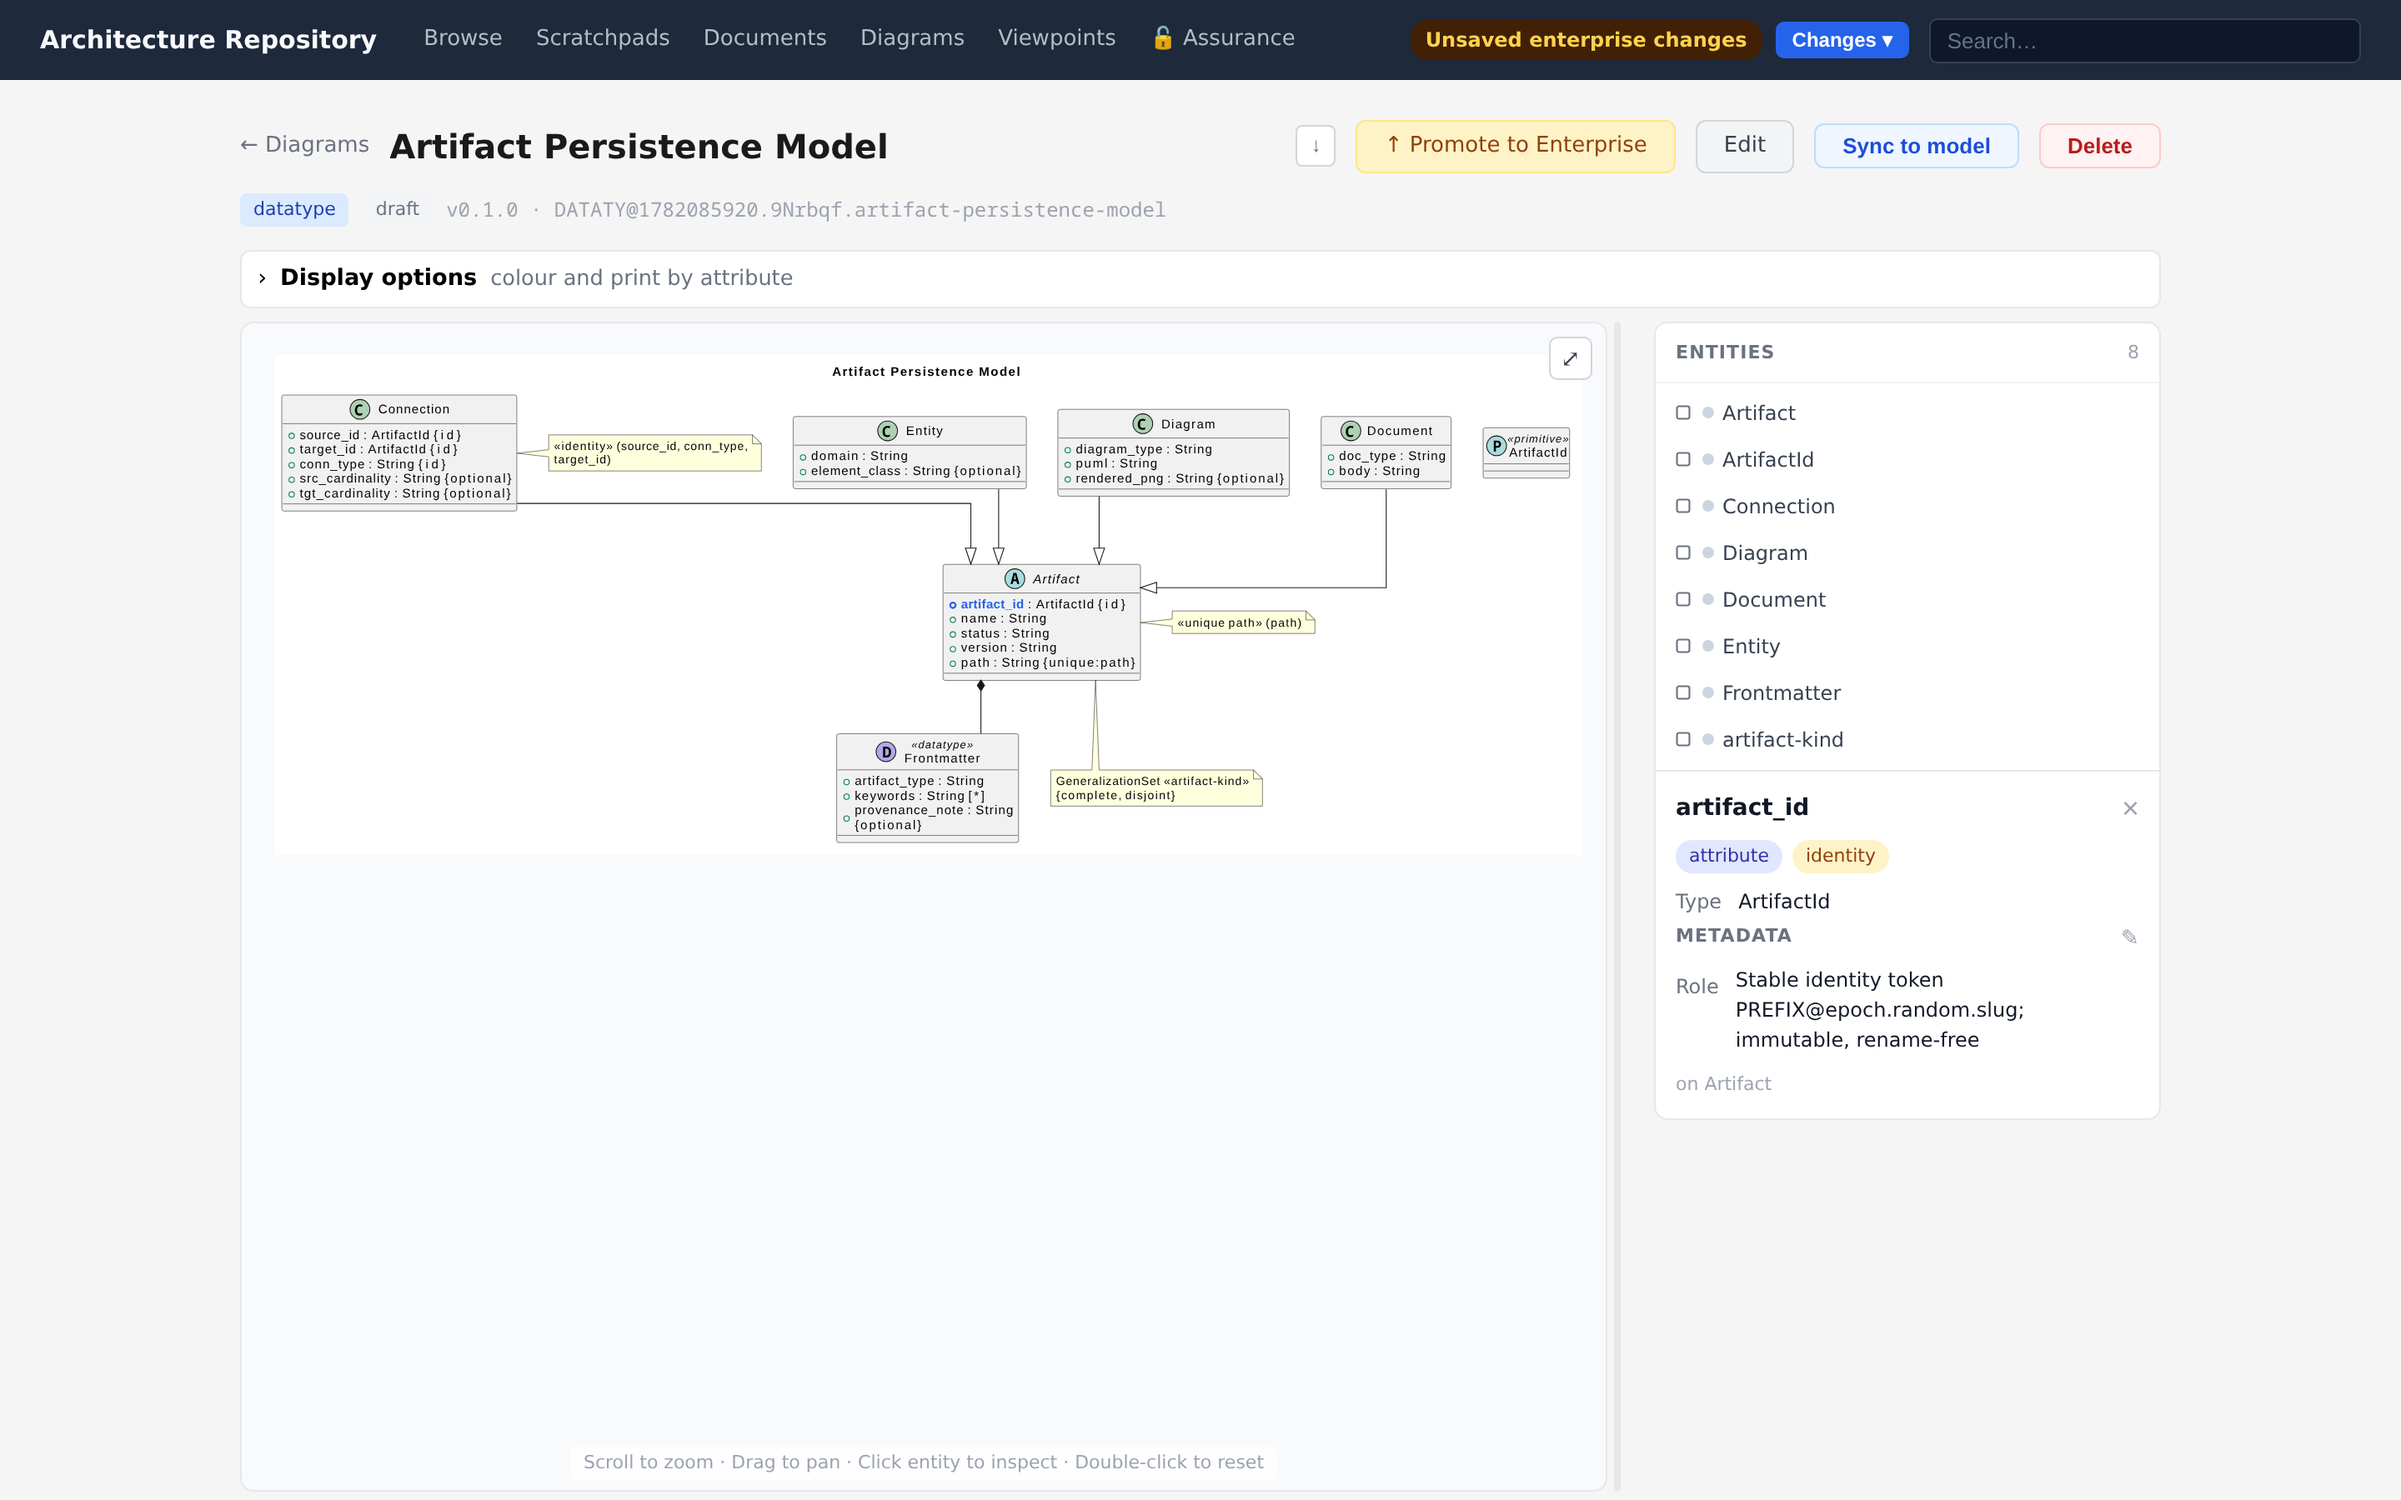
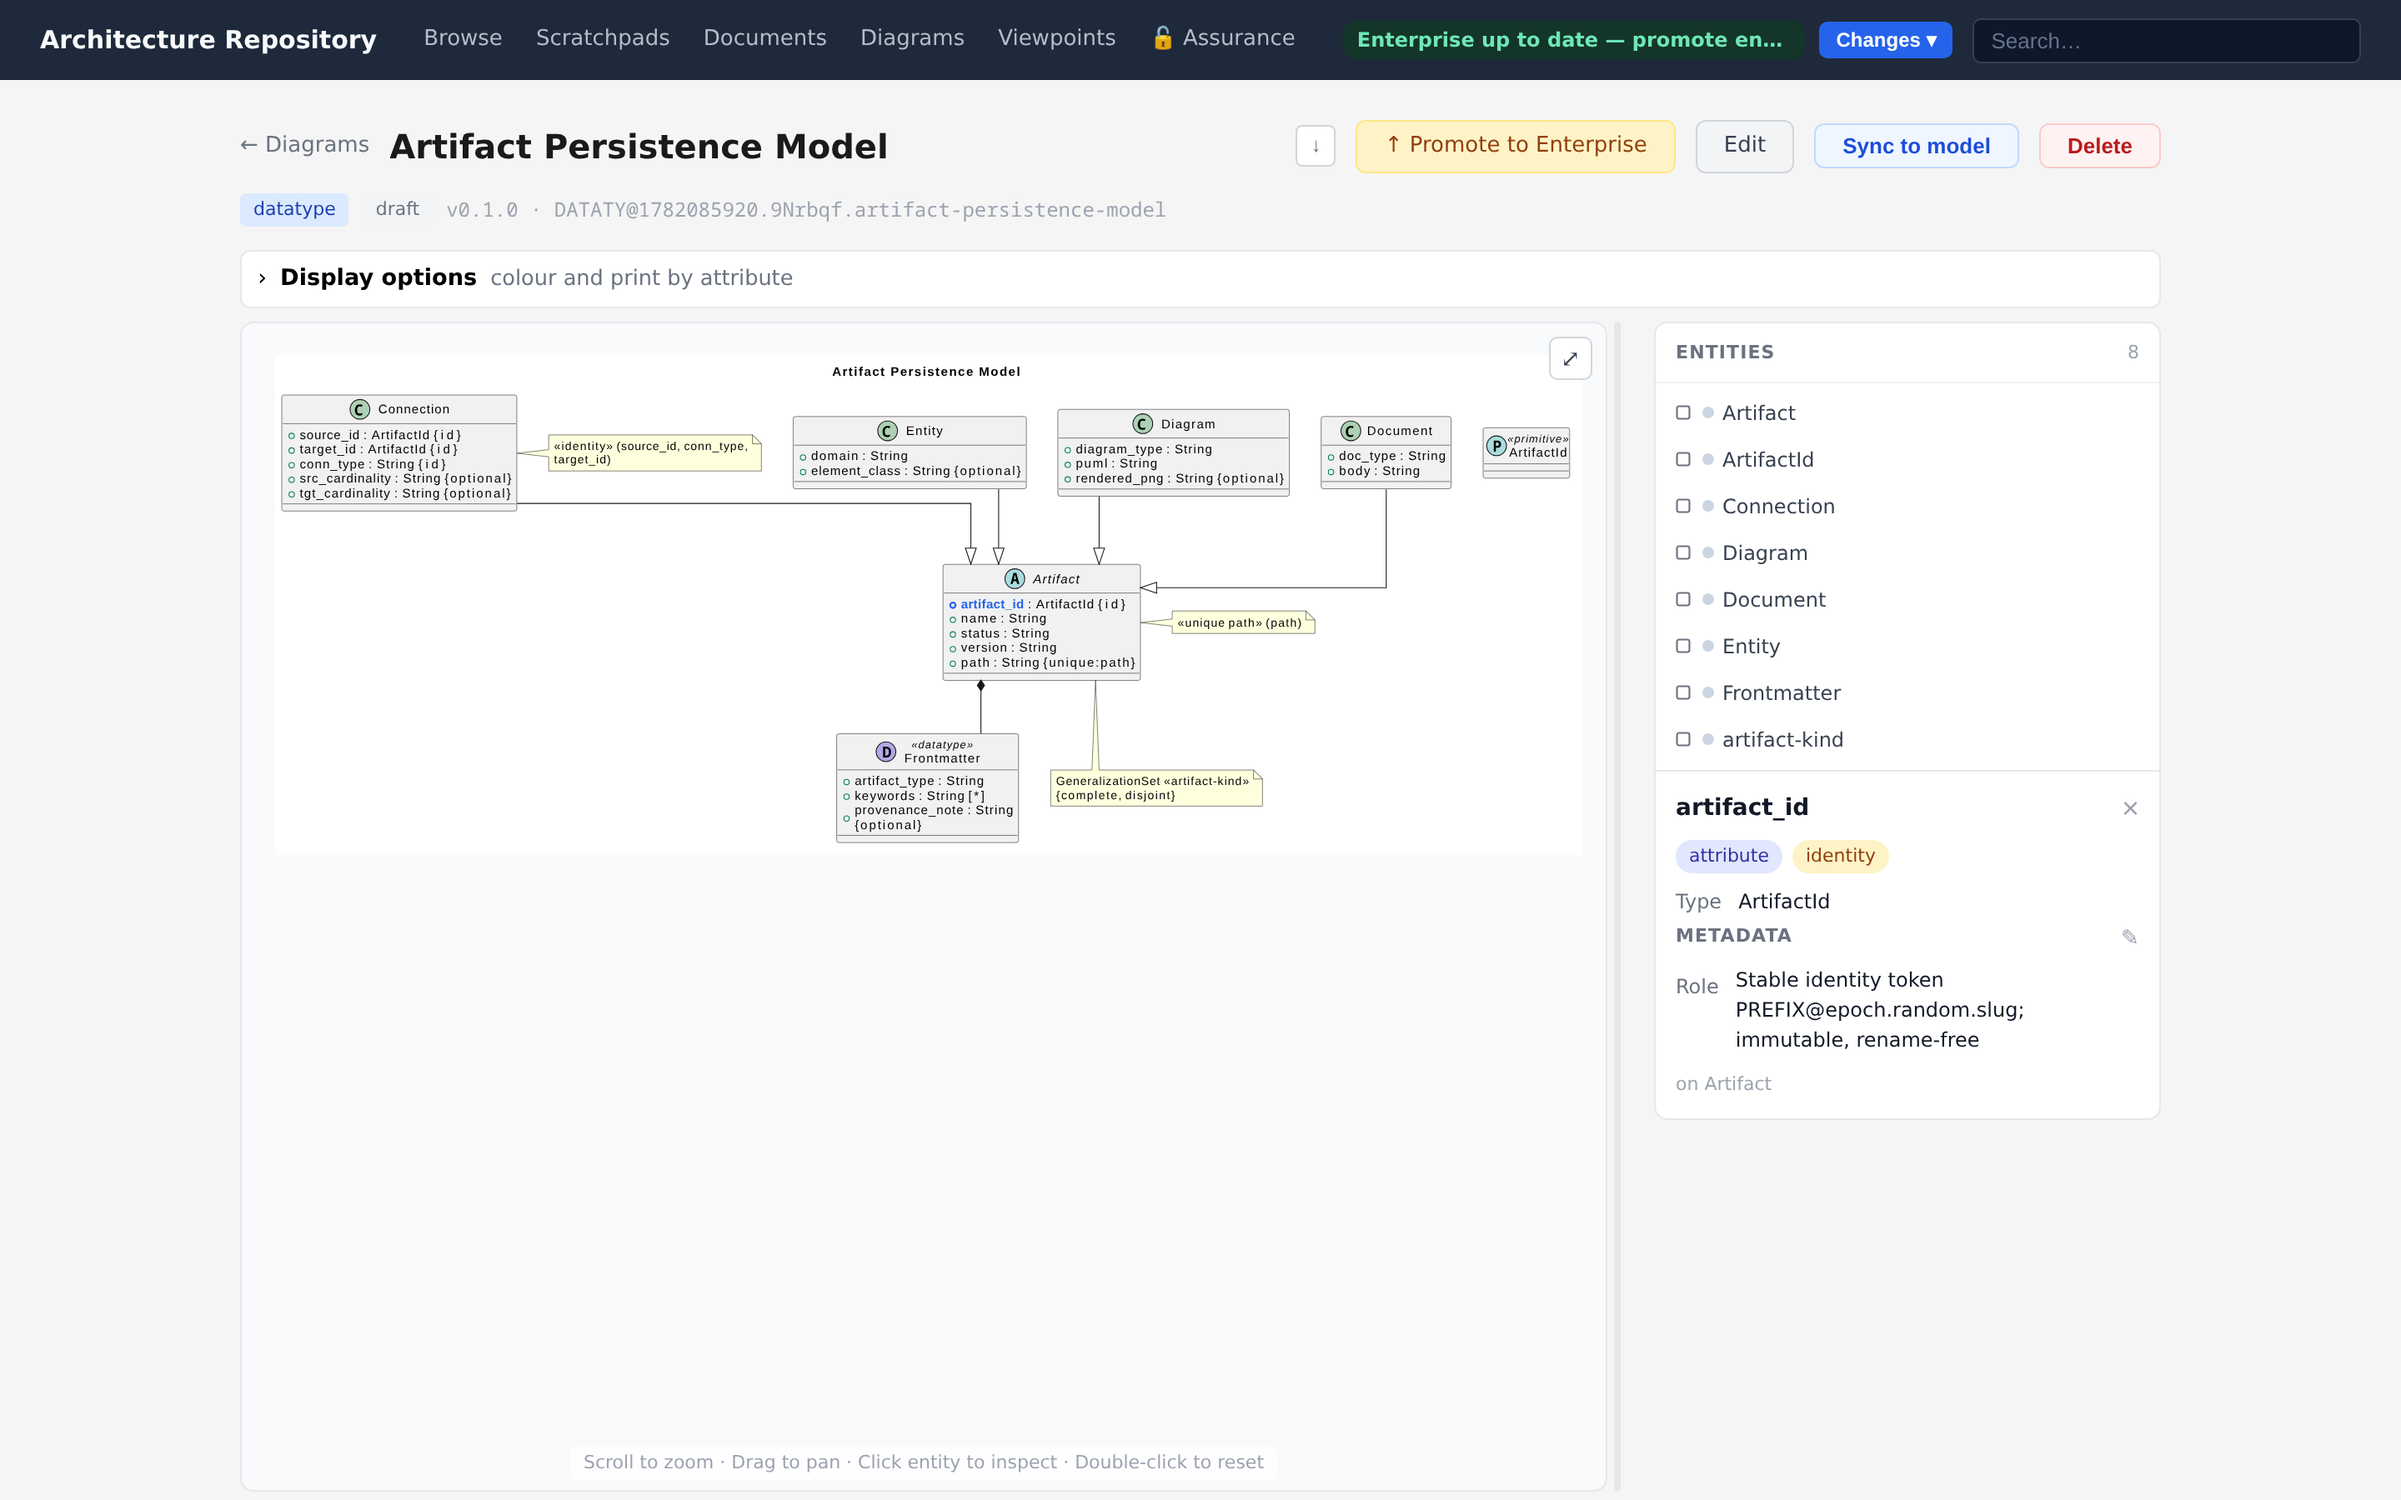
Docs: re-shoot the media set, and capture the proposed-changes page
Every figure showing the header changed: the primary navigation lost an entry
and the search box no longer overhangs the window, so the whole set is re-shot
rather than the handful whose own surface moved. The manifest carries 37
provenance records, one per capture.

The new figure shows both halves of the page a reader needs to recognise: a
draft change against the artifact as it stands, and a submitted one whose
artifact has moved on, offering to bring it onto the current version. Its data
is intercepted and marked `synthetic_augmentation`, because a capture driven
against the real repository would have to write a change into it.

Changed region(s): [[0.5625, 0.0, 0.8438, 0.0622]]

diff --git a/tools/gui/tests/media/proposedChangesMedia.spec.ts b/tools/gui/tests/media/proposedChangesMedia.spec.ts
@@ -1,0 +1,78 @@
+import { expect, test } from '@playwright/test'
+import { capture, watch, type CaptureProvenance } from './mediaHelpers'
+
+/**
+ * The documentation's picture of what an engagement is holding against promoted content.
+ *
+ * The list is rendered from `/api/changes`, and that answer is supplied here rather than produced
+ * by editing this repository's own promoted artifacts. A change is a real write: recording two to
+ * be photographed would leave them in the self-model, and discarding them afterwards would leave
+ * the terminal records the lifecycle keeps on purpose.
+ *
+ * So the page is real, the data is representative, and the manifest says so —
+ * `synthetic_augmentation: true`, the same declaration the scratchpad and security captures carry.
+ *
+ * The subject is what the page exists to answer: which artifacts you have changed, what each
+ * change would make them say beside what they say now, and which of them needs something doing
+ * about it. One of each, because a page showing only the settled case argues nothing.
+ */
+
+const PROVENANCE: CaptureProvenance = {
+  test_name: 'local changes against promoted content',
+  artifact_ids: [],
+  synthetic_augmentation: true,
+}
+
+const CHANGES = [
+  {
+    artifact_id: 'PCH@1780000900.MediaA.change-to-a-promoted-requirement',
+    target_id: 'REQ@1712870400.MediaB.every-write-is-verified-before-it-lands',
+    target_name: 'Every write is verified before it lands',
+    kind: 'entity' as const,
+    changed_fields: ['summary'],
+    state: 'draft' as const,
+    condition: 'current' as const,
+    divergence: [{
+      field: 'summary',
+      proposed: 'Every write is verified before it lands, including writes made by an agent.',
+      current: 'Every write is verified before it lands.',
+    }],
+  },
+  {
+    artifact_id: 'PCH@1780000901.MediaC.change-to-a-promoted-standard',
+    target_id: 'STD@1712870400.MediaD.naming-conventions-for-shared-content',
+    target_name: 'Naming conventions for shared content',
+    kind: 'document' as const,
+    changed_fields: ['title'],
+    state: 'submitted' as const,
+    condition: 'stale' as const,
+    divergence: [{
+      field: 'title',
+      proposed: 'Naming conventions for shared content',
+      current: 'Naming conventions for promoted content',
+    }],
+  },
+]
+
+test('the changes an engagement is holding', async ({ page }) => {
+  const problems = watch(page)
+  await page.route('**/api/changes', async (route) => {
+    if (route.request().method() !== 'GET') return route.fallback()
+    await route.fulfill({
+      status: 200,
+      contentType: 'application/json',
+      body: JSON.stringify({ changes: CHANGES, total: CHANGES.length }),
+    })
+  })
+
+  await page.goto('/changes', { waitUntil: 'load' })
+
+  // `.first()`: each name appears in its row and again in the values shown beneath it, which is
+  // the page working rather than an ambiguity to design around.
+  await expect(page.getByText('Every write is verified before it lands').first()).toBeVisible()
+  await expect(page.getByText('Naming conventions for shared content').first()).toBeVisible()
+  // Both readings on screen: the settled change and the one whose artifact has moved under it.
+  await expect(page.getByText(/moved since this was written/i)).toBeVisible()
+  await capture(page, 'proposed-changes.png', PROVENANCE)
+  expect(problems, 'runtime problems while capturing proposed-changes.png').toEqual([])
+})
